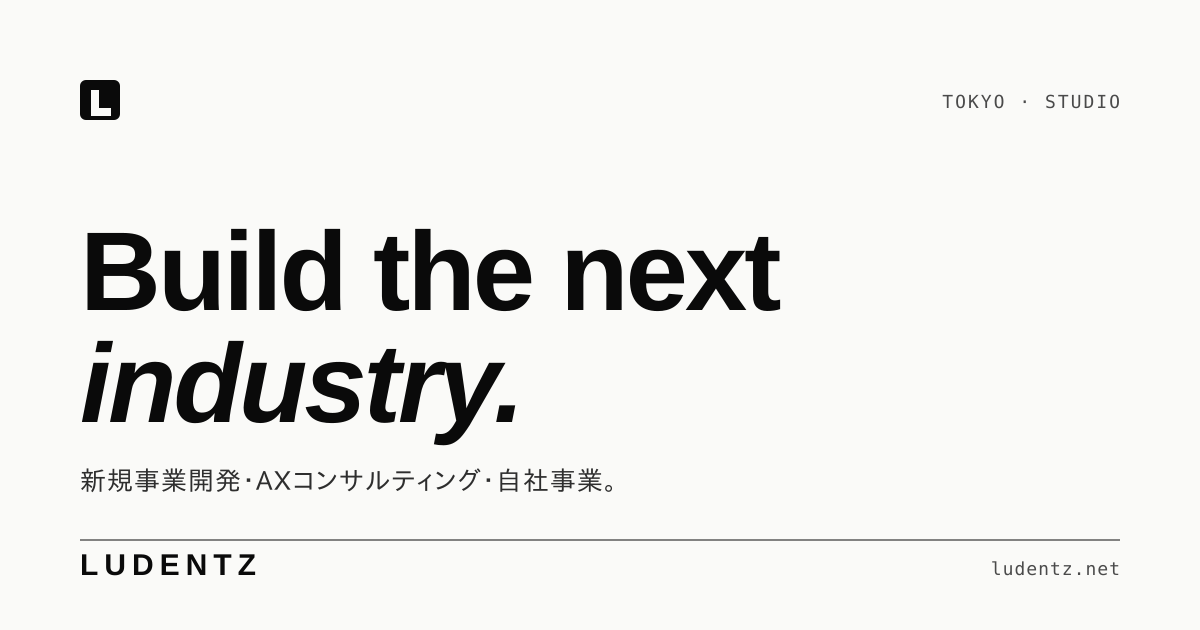
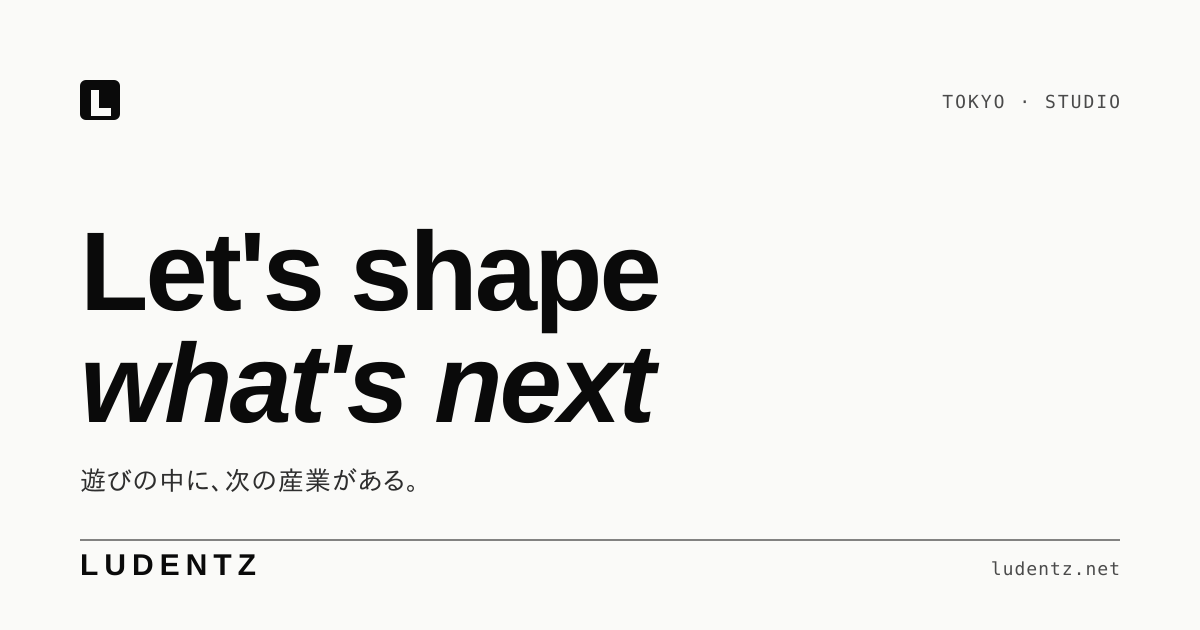
Fix OG image and title to match current hero copy
Hero text changed to "Let's shape what's next" / "遊びの中に、次の産業がある。"
— update og-image.svg/png, page title, og:title, twitter:title, JSON-LD slogan

https://claude.ai/code/session_01EeS6uQA6PUZEAs1d2ncdn6

Changed region(s): [[0.0617, 0.3619, 0.6475, 0.5429], [0.0617, 0.5429, 0.555, 0.7238], [0.0617, 0.7238, 0.5242, 0.7841]]

diff --git a/index.html b/index.html
@@ -3,7 +3,7 @@
   <head>
     <meta charset="UTF-8" />
     <meta name="viewport" content="width=device-width, initial-scale=1.0" />
-    <title>LUDENTZ — Build the next industry.</title>
+    <title>LUDENTZ — Let's shape what's next</title>
     <meta name="description" content="LUDENTZは、東京を拠点とするスタジオです。新規事業開発・AXコンサルティング・自社事業の三つの軸で、先端を走ります。" />
     <link rel="canonical" href="https://ludentz.net/" />
 
@@ -18,22 +18,22 @@
     <!-- Open Graph -->
     <meta property="og:type" content="website" />
     <meta property="og:site_name" content="LUDENTZ" />
-    <meta property="og:title" content="LUDENTZ — Build the next industry." />
+    <meta property="og:title" content="LUDENTZ — Let's shape what's next" />
     <meta property="og:description" content="LUDENTZは、東京を拠点とするスタジオです。新規事業開発・AXコンサルティング・自社事業の三つの軸で、先端を走ります。" />
     <meta property="og:url" content="https://ludentz.net/" />
     <meta property="og:image" content="https://ludentz.net/og-image.png" />
     <meta property="og:image:width" content="1200" />
     <meta property="og:image:height" content="630" />
-    <meta property="og:image:alt" content="LUDENTZ — Build the next industry." />
+    <meta property="og:image:alt" content="LUDENTZ — Let's shape what's next" />
     <meta property="og:locale" content="ja_JP" />
     <meta property="og:locale:alternate" content="en_US" />
 
     <!-- Twitter Card -->
     <meta name="twitter:card" content="summary_large_image" />
-    <meta name="twitter:title" content="LUDENTZ — Build the next industry." />
+    <meta name="twitter:title" content="LUDENTZ — Let's shape what's next" />
     <meta name="twitter:description" content="LUDENTZは、東京を拠点とするスタジオです。新規事業開発・AXコンサルティング・自社事業の三つの軸で、先端を走ります。" />
     <meta name="twitter:image" content="https://ludentz.net/og-image.png" />
-    <meta name="twitter:image:alt" content="LUDENTZ — Build the next industry." />
+    <meta name="twitter:image:alt" content="LUDENTZ — Let's shape what's next" />
 
     <!-- Structured data -->
     <script type="application/ld+json">
@@ -45,7 +45,7 @@
         "logo": "https://ludentz.net/assets/logo.svg",
         "image": "https://ludentz.net/og-image.png",
         "description": "LUDENTZは、東京を拠点とするスタジオ。新規事業開発・AXコンサルティング・自社事業の三つの軸で先端を走ります。",
-        "slogan": "Build the next industry.",
+        "slogan": "Let's shape what's next",
         "address": {
           "@type": "PostalAddress",
           "addressLocality": "Tokyo",
